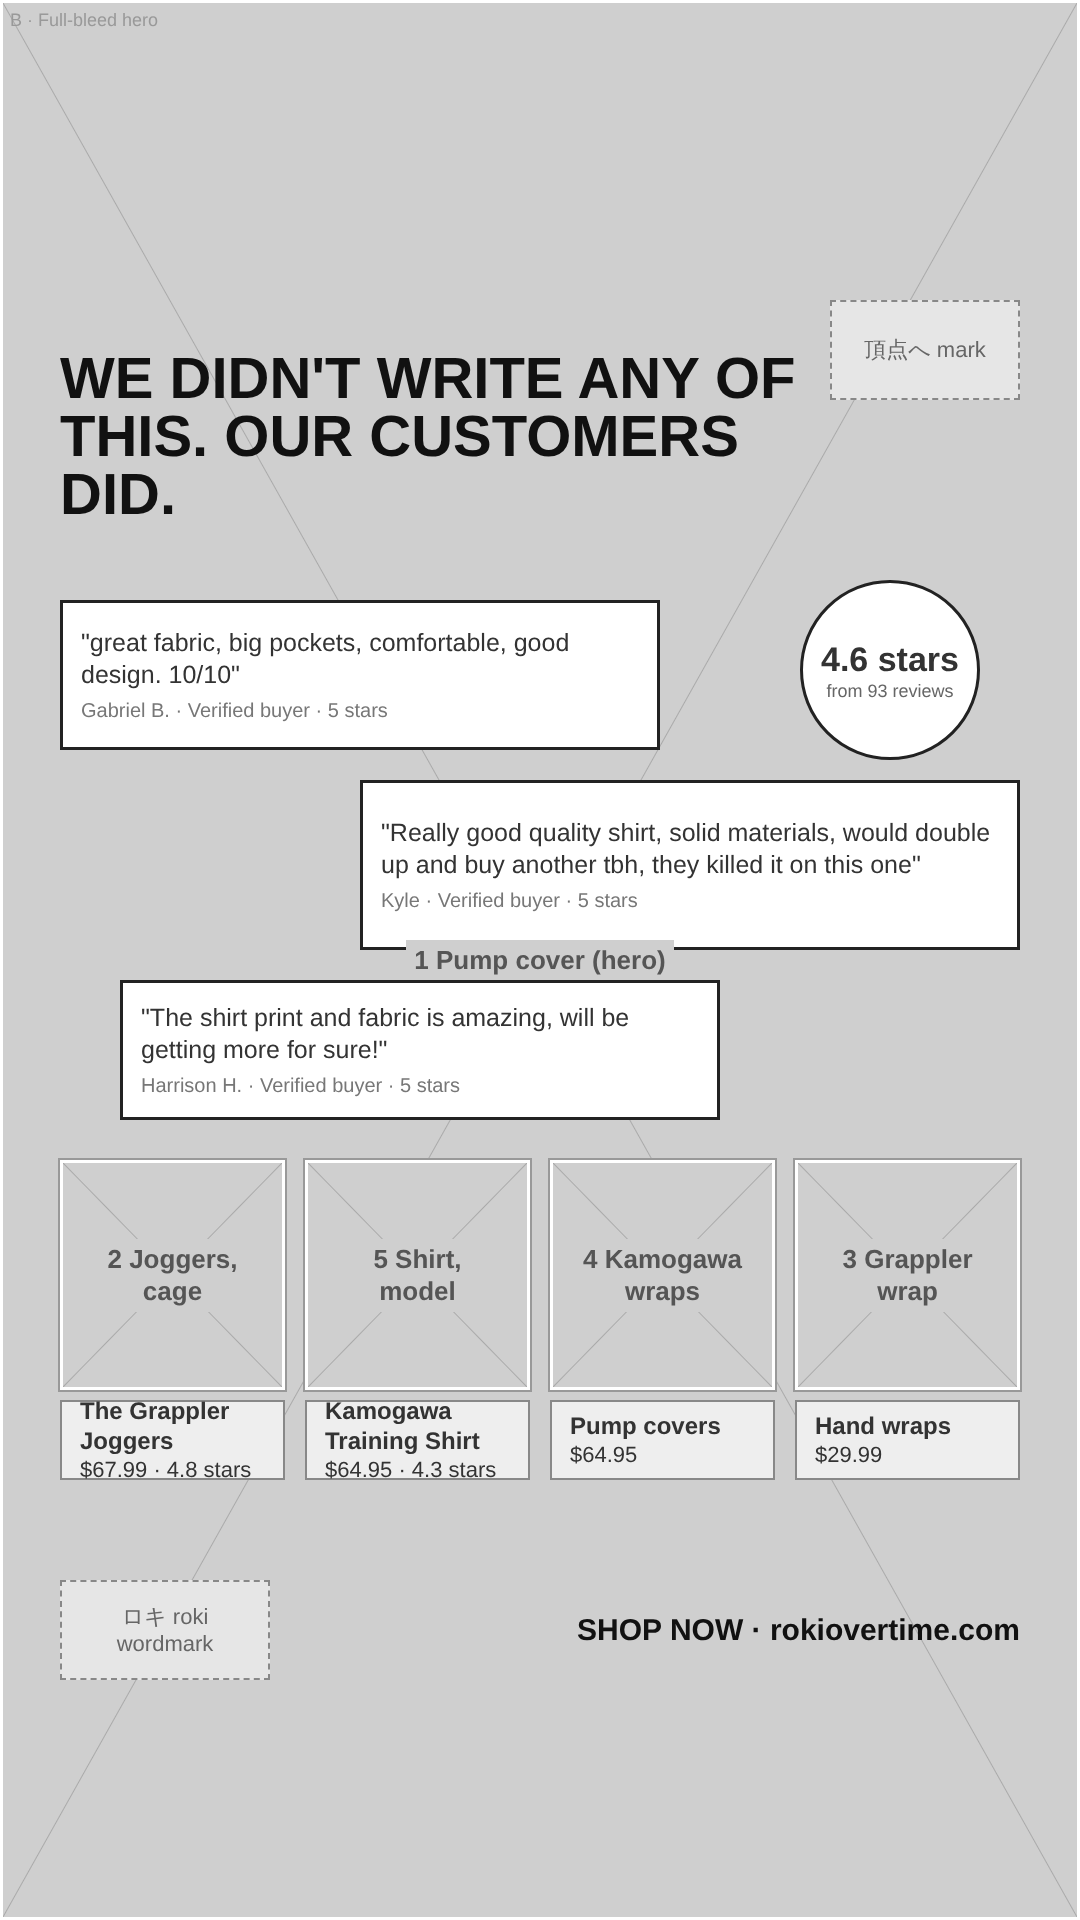
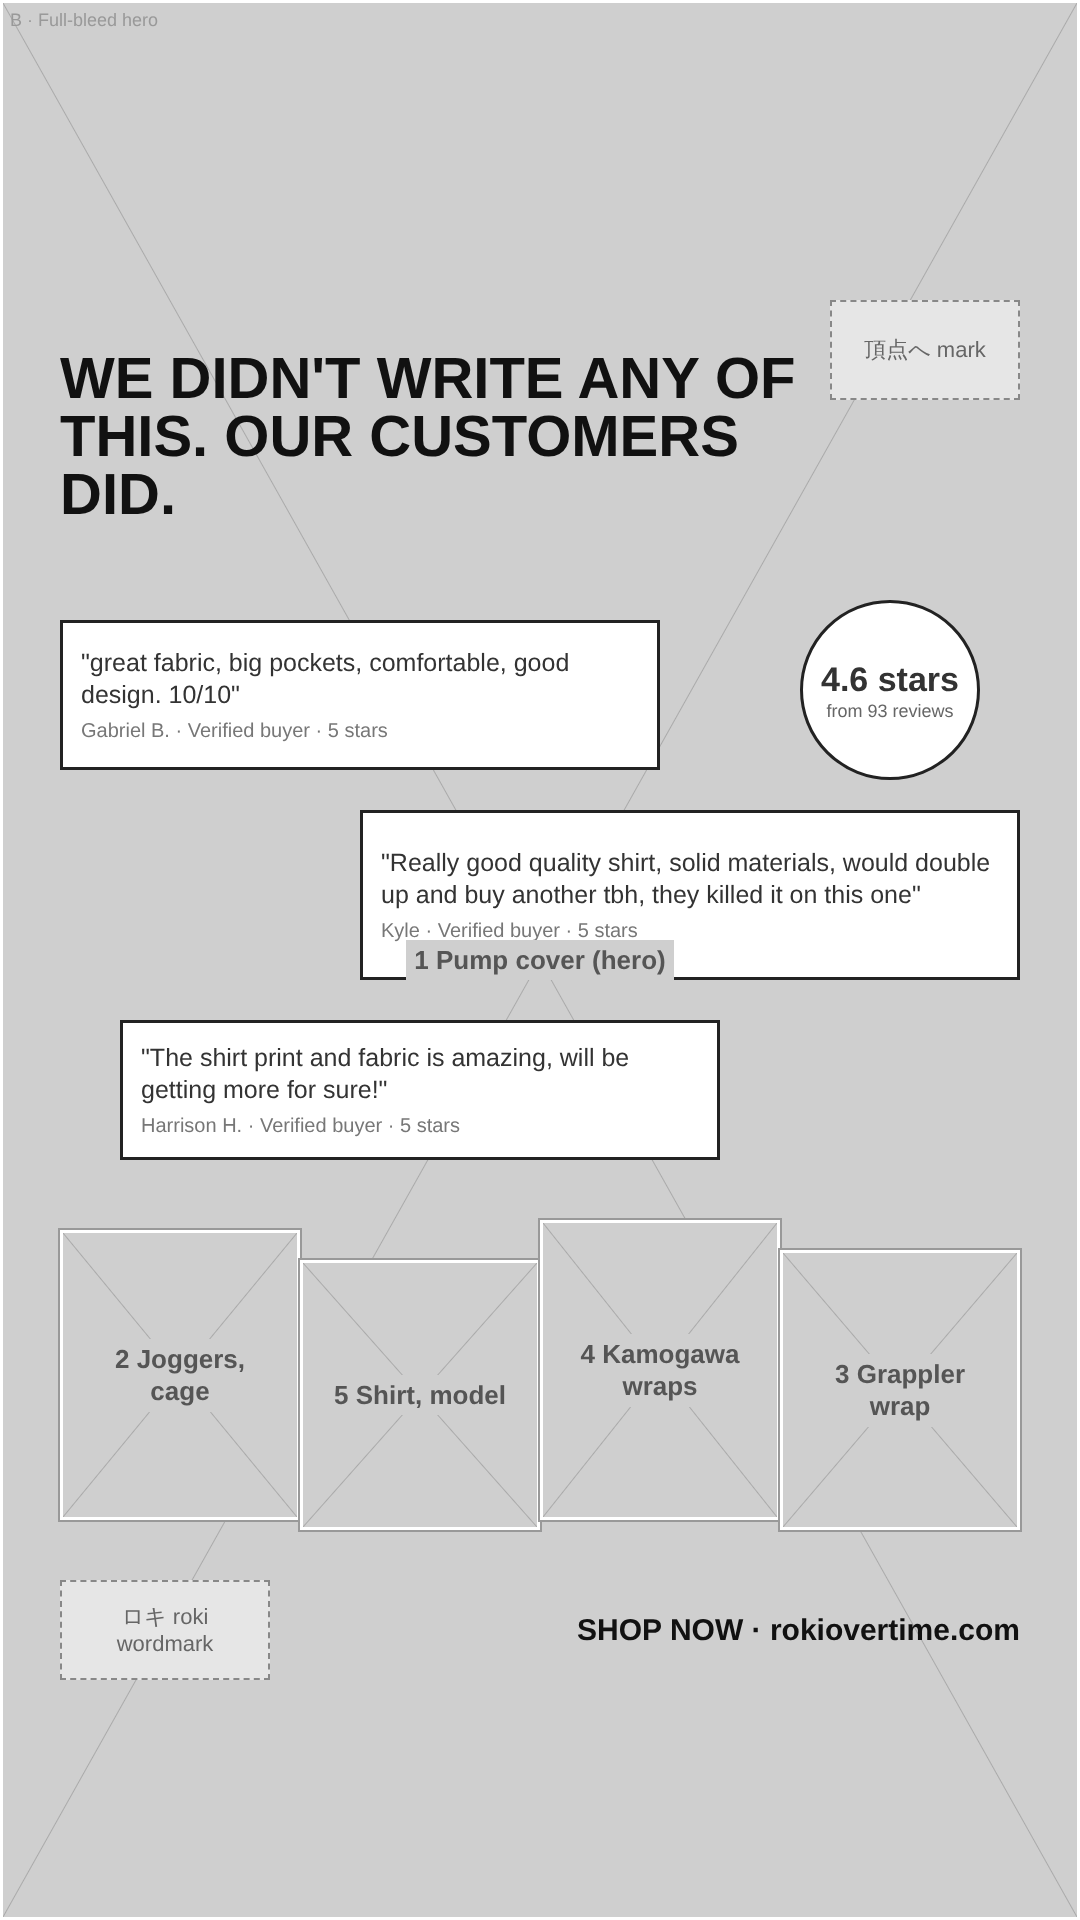
AD-007 low-fi B: drop price strip
Claude-Session: https://claude.ai/code/session_012ToaCGcLt8u8fZtcLrNXTx

Changed region(s): [[0.0306, 0.2812, 0.9472, 0.8125], [0.0306, 0.5938, 0.0611, 0.625]]

diff --git a/ads/AD-007/layout/lofi.html b/ads/AD-007/layout/lofi.html
@@ -62,10 +62,10 @@ const V = {
   'B · Full-bleed hero': [
     photo(0, 0, 1080, 1920, 'hero'),
     hook(60, 336, 740, 200),
-    quote(60, 600, 600, 150, Q1), quote(360, 780, 660, 170, Q2), quote(120, 980, 600, 140, Q3),
-    badge(800, 580, 180),
-    photo(60, 1160, 225, 230, 'jog'), photo(305, 1160, 225, 230, 'shirt'), photo(550, 1160, 225, 230, 'kwrap'), photo(795, 1160, 225, 230, 'gwrap'),
-    ...strip(1400), cta(), ...corners(),
+    quote(60, 620, 600, 150, Q1), quote(360, 810, 660, 170, Q2), quote(120, 1020, 600, 140, Q3),
+    badge(800, 600, 180),
+    photo(60, 1230, 240, 290, 'jog'), photo(300, 1260, 240, 270, 'shirt'), photo(540, 1220, 240, 300, 'kwrap'), photo(780, 1250, 240, 280, 'gwrap'),
+    cta(), ...corners(),
   ],
   'C · Review wall': [
     hook(60, 336, 740, 200),
